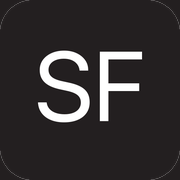
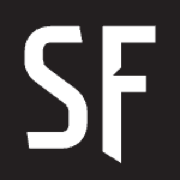
Set the hero on three lines and swap in the SF mark.
The title should break as Digital application / design and development / with AI, and the tab icon should match the supplied square.

diff --git a/index.html b/index.html
@@ -48,7 +48,7 @@
     <section id="top" class="hero">
       <div class="wrap">
         <p class="kicker reveal">Platform · Web · Mobile app</p>
-        <h1 class="reveal">Digital application design and development with AI.</h1>
+        <h1 class="reveal">Digital application<br />design and development<br />with AI.</h1>
         <p class="hero-copy reveal">
           Skyface designs and builds digital products for the web and mobile –
           from first sketch to a working application.

diff --git a/css/site.css b/css/site.css
@@ -254,7 +254,8 @@ main {
 
 .hero h1 {
   margin: 0 auto;
-  max-width: 11.4em;
+  width: max-content;
+  max-width: 100%;
   font-size: clamp(2.5rem, 6.1vw, 4.75rem);
   font-weight: 560;
   letter-spacing: -0.045em;
